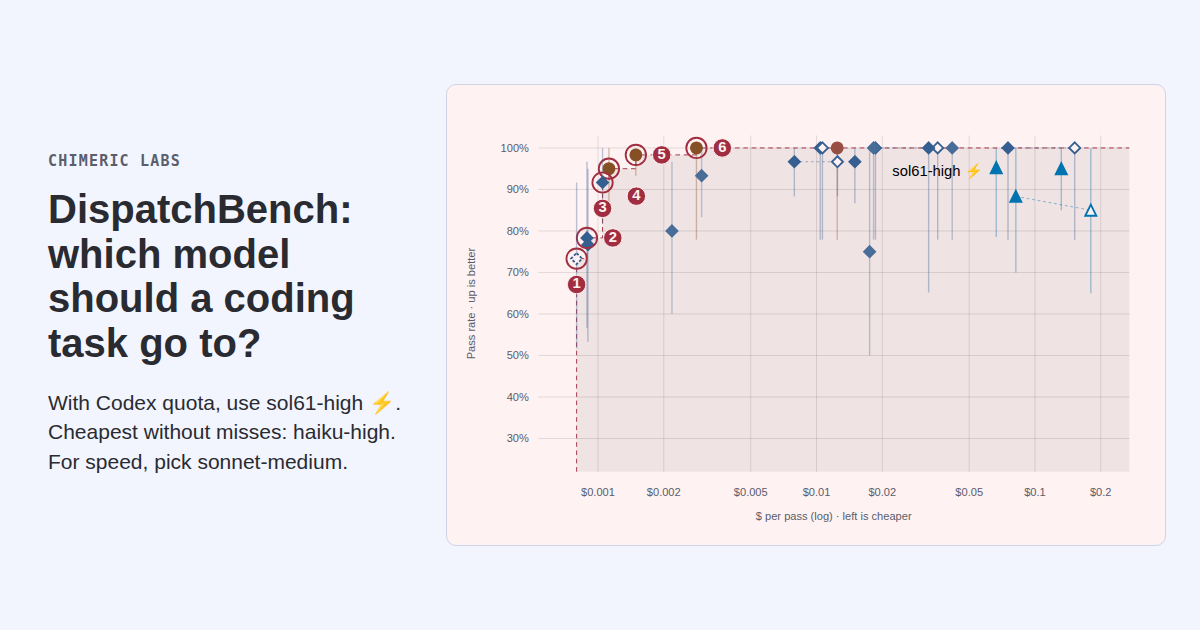
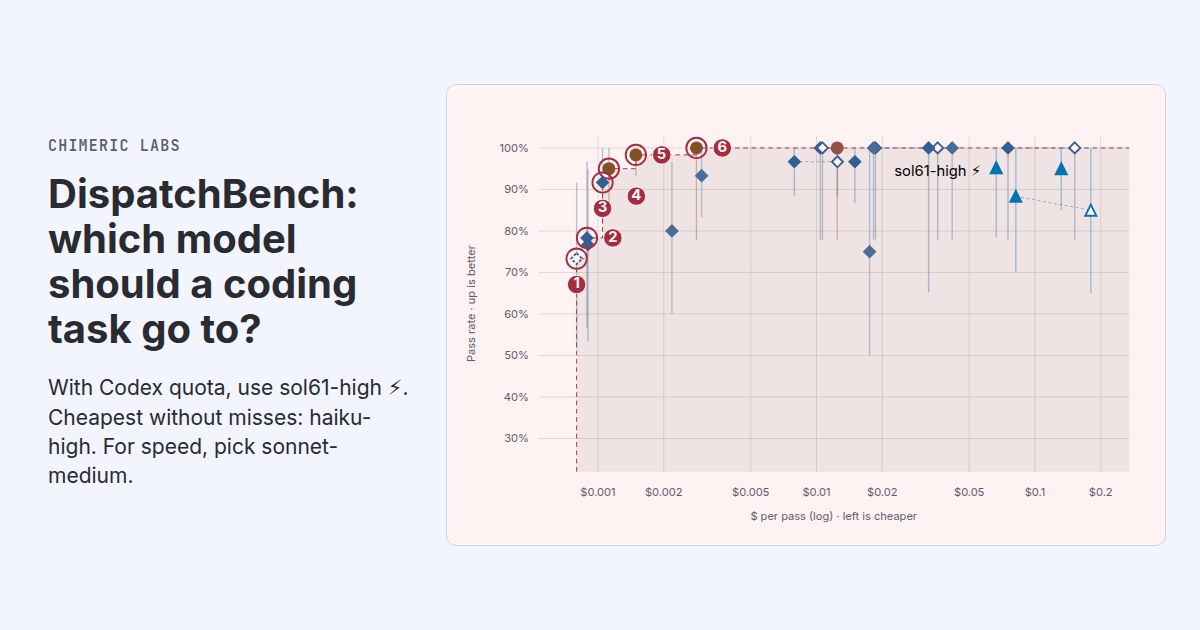
Share card uses the page fonts: Inter and JetBrains Mono, not Hanken/Atkinson

diff --git a/analysis/og.py b/analysis/og.py
@@ -18,11 +18,12 @@ def takeaway(facts):
 
 def card_html(facts):
     svg = open(HERO).read()
-    return f"""<!doctype html><html data-theme="light"><meta charset="utf-8"><style>
+    return f"""<!doctype html><html data-theme="light"><meta charset="utf-8">
+<link rel="stylesheet" href="https://fonts.googleapis.com/css2?family=Inter:wght@400;600;700&amp;family=JetBrains+Mono:wght@600&amp;display=block"><style>
 *{{box-sizing:border-box}}html,body{{margin:0;width:1200px;height:630px;background:var(--bg);color:var(--fg);
-font-family:'Hanken Grotesk','Atkinson Hyperlegible',-apple-system,'Segoe UI',Helvetica,Arial,sans-serif;overflow:hidden}}
+font-family:Inter,system-ui,-apple-system,'Segoe UI',Helvetica,Arial,sans-serif;overflow:hidden}}
 .card{{display:flex;height:630px;padding:40px 36px 40px 48px;gap:28px;align-items:center}}
-.txt{{width:370px;flex:none}}.kick{{font:600 15px/1 monospace;letter-spacing:.08em;text-transform:uppercase;color:var(--muted);margin:0 0 18px}}
+.txt{{width:370px;flex:none}}.kick{{font:600 15px/1 'JetBrains Mono',monospace;letter-spacing:.08em;text-transform:uppercase;color:var(--muted);margin:0 0 18px}}
 h1{{font-size:40px;line-height:1.12;margin:0 0 22px;font-weight:700}}p{{font-size:21px;line-height:1.4;margin:0;color:var(--fg)}}
 .chart{{flex:none;width:720px;background:var(--panel);border:1px solid var(--line);border-radius:10px;padding:8px}}.chart svg{{width:100%;height:auto;display:block}}
 </style><div class="card"><div class="txt"><p class="kick">Chimeric Labs</p><h1>{escape(TITLE)}</h1><p>{escape(takeaway(facts))}</p></div>
@@ -37,7 +38,7 @@ def build():
     with tempfile.TemporaryDirectory() as d:
         src, png = os.path.join(d, "card.html"), os.path.join(d, "og.png")
         open(src, "w").write(card_html(facts))
-        r = subprocess.run([chrome, "--headless", "--disable-gpu", "--no-sandbox", "--hide-scrollbars", "--window-size=1200,630",
+        r = subprocess.run([chrome, "--headless", "--disable-gpu", "--no-sandbox", "--hide-scrollbars", "--window-size=1200,630", "--virtual-time-budget=10000",
                             f"--screenshot={png}", "file://" + src], capture_output=True, text=True, timeout=120)
         if r.returncode or not os.path.exists(png):
             print("og.png: Chrome failed; kept the existing file:", r.stderr.strip()[-200:]); return 0
